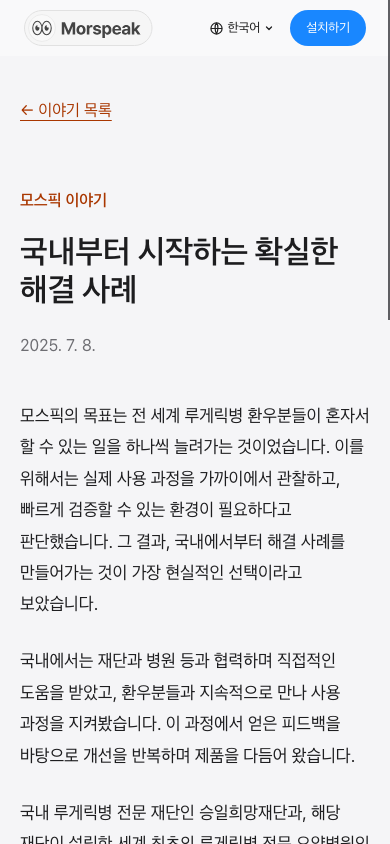
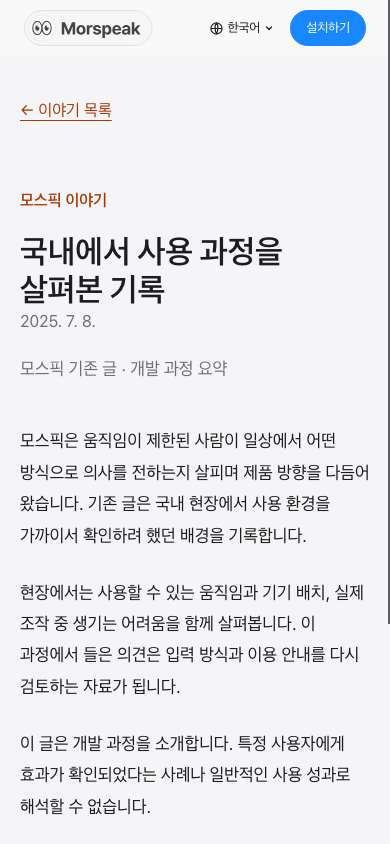
feat(home): 한국어 회사 홈의 변화 근거와 이야기 출처를 명확히 정리
일곱 영역의 탐색을 유지하며 확인된 과정, 보도 사례, 검증 전 기대 효과를 구분했습니다.
기존 이야기의 미확인 수치·인용을 새 경로에서 제외하고 출처와 검토 화면을 기록했습니다.
전체 린트의 기존 88개 오류는 이번 변경 범위 밖에 남아 있습니다.

Changed region(s): [[0.0308, 0.2773, 0.9538, 1.0], [0.9846, 0.3697, 1.0, 0.7393], [0.8615, 0.6777, 0.9231, 0.7085]]

diff --git a/app/home/renewal/Renewal.tsx b/app/home/renewal/Renewal.tsx
@@ -265,22 +265,12 @@ function InputSymbol({ kind }: { kind: InputKind }) {
 }
 const stories = [
   {
-    source: "모스픽 소식",
-    title: "WWDC에서 모스픽을 소개했습니다",
-    image: "/renewal-reference/morspeak-tim-cook-meeting.jpg",
-    small: "/renewal-reference/morspeak-tim-cook-meeting.jpg",
-    alt: "WWDC에서 모스픽을 소개하는 한가온 대표",
-    href: "/articles/250609",
-    external: false,
-  },
-  {
     source: "스마일게이트 뉴스룸",
-    title: "기술을 통한 사회적 변화에 관한 인터뷰",
+    title: "모스픽의 기술과 일상에 관한 인터뷰",
     image: "/renewal-reference/morspeak-everyday-story-20261008.webp",
     small: "/renewal-reference/morspeak-everyday-story-20261008.webp",
     alt: "침대 옆에서 모스픽을 설명하는 장면",
     href: "https://newsroom.smilegate.com/en/lab/morspeak_interview",
-    external: true,
   },
 ];
 const onboardingSteps = [
@@ -584,9 +574,18 @@ export default function Renewal() {
             <h2>변화는 스스로 선택할 수 있는 순간에서 시작합니다.</h2>
           </div>
           <div className={styles.impactCopy}>
-            <p>원하는 말을 전하고, 조명을 조절하거나 음악을 고르는 일. 모스픽은 작은 움직임이 이런 선택으로 이어지도록 설계합니다.</p>
-            <p>그 변화는 당사자가 의사를 표현할 통로를 넓히고, 가족·돌봄 제공자와 소통하는 방식에도 영향을 줄 수 있습니다. 실제 사용 결과와 효과는 개인별 사용 환경에서 확인해야 합니다.</p>
-            <p>2026년 7월 스마일게이트 뉴스룸 인터뷰는 한 가족이 필요한 것을 요청하고 음악을 직접 선택한 경험을 소개합니다. 한 사례의 보도 내용이며, 모든 사용자에게 같은 결과가 나타난다는 뜻은 아닙니다.</p>
+            <div className={styles.impactItem}>
+              <h3>확인된 사용 과정의 변화</h3>
+              <p>모스픽은 작은 움직임을 입력으로 받아 화면에서 말을 만들고 선택하는 과정을 제공합니다. 어떤 움직임을 사용할 수 있는지는 잔존 움직임 평가와 결과 검토를 통해 개인별로 확인합니다.</p>
+            </div>
+            <div className={styles.impactItem}>
+              <h3>출처가 있는 한 가족의 경험</h3>
+              <p>2026년 7월 스마일게이트 뉴스룸은 한 가족이 필요한 것을 요청하고 음악을 직접 선택한 경험을 전했습니다. 보도에 실린 한 사례이며, 다른 사용자에게 같은 결과가 나타난다는 근거는 아닙니다.</p>
+            </div>
+            <div className={styles.impactItem}>
+              <h3>검증할 임팩트</h3>
+              <p>당사자가 의사를 표현할 기회와 가족·돌봄 제공자와의 소통 방식이 넓어질 것으로 기대합니다. 실제 변화의 정도와 지속 여부는 개인별 사용 환경에서 확인해야 합니다.</p>
+            </div>
             <a className={styles.textLink} href="https://newsroom.smilegate.com/en/lab/morspeak_interview" target="_blank" rel="noreferrer">스마일게이트 뉴스룸 인터뷰 원문 읽기 →</a>
             <Link className={styles.textLink} href="#renewal-journal">만들어 가는 과정 읽기 →</Link>
           </div>
@@ -626,7 +625,7 @@ export default function Renewal() {
           ))}
         </Gallery>
         <div className={styles.sectionAction}>
-          <p>평가 장소·기기·비용과 지원 범위는 이용 안내 과정에서 확인할 수 있습니다.</p>
+          <p>신청 화면에서 희망 날짜를 선택하면 해당 날짜의 접수 순서에 따라 담당자가 연락해 이용 절차를 안내합니다. 평가 장소·기기·비용과 지원 범위는 안내 과정에서 확인할 수 있습니다.</p>
           <Link className={styles.pillLink} href="/waitlist">모스픽 이용 안내 신청</Link>
         </div>
       </section>
@@ -647,12 +646,12 @@ export default function Renewal() {
         </div>
         <div className={styles.journalGrid}>
           <Link href="/home/renewal/stories/250708" className={styles.journalCard}>
-            <span>현장과 제품</span><h3>국내부터 시작하는 해결 사례</h3>
-            <p>직접 만나 사용 과정을 살피고, 피드백을 제품에 반영해 온 이야기.</p><strong>이야기 읽기 →</strong>
+            <span>현장과 제품</span><h3>국내에서 사용 과정을 살펴본 기록</h3>
+            <p>현장에서 사용 과정을 살피고 제품 방향을 다듬은 기록.</p><strong>이야기 읽기 →</strong>
           </Link>
           <Link href="/home/renewal/stories/251124" className={styles.journalCard}>
-            <span>만드는 사람들</span><h3>Let’Swift에서 전한 모스픽의 여정</h3>
-            <p>모스픽을 만들게 된 계기와 입력 기술을 개발해 온 과정.</p><strong>이야기 읽기 →</strong>
+            <span>만드는 사람들</span><h3>Let’Swift에서 전한 개발 이야기</h3>
+            <p>모스픽 기존 글에 담긴 개발 배경과 발표 내용을 정리한 기록.</p><strong>이야기 읽기 →</strong>
           </Link>
         </div>
         <Link className={styles.textLink} href="/home/renewal/stories">모든 이야기 보기 →</Link>
@@ -671,7 +670,7 @@ export default function Renewal() {
               <div className={styles.storyCopy}>
                 <p className={styles.storySource}>{card.source}</p>
                 <h3>{card.title}</h3>
-                <a href={card.href} target={card.external ? "_blank" : undefined} rel={card.external ? "noreferrer" : undefined}>기사 읽기 →</a>
+                <a href={card.href} target="_blank" rel="noreferrer">기사 읽기 →</a>
               </div>
             </article>
           ))}

diff --git a/app/home/renewal/stories/story-data.ts b/app/home/renewal/stories/story-data.ts
@@ -1,11 +1,51 @@
 import { articles } from "@/lib/articles";
 
-// The existing articles about field work and product development form the story collection.
-// Awards and event coverage stay in the press/news area.
-const storySlugs = ["250708", "251124"] as const;
+type Story = {
+  slug: string;
+  title: string;
+  date: string;
+  paragraphs: string[];
+  provenance: {
+    authorType: "모스픽 기존 글";
+    originalSource: string;
+    publicationDate: string;
+    reuseScope: "개발 과정 요약";
+  };
+};
 
-export const stories = storySlugs.map((slug) => {
-  const article = articles.find((item) => item.slug === slug);
-  if (!article) throw new Error(`Missing existing story article: ${slug}`);
-  return article;
+// Dates and source links come from existing team articles. Their unverified
+// counts, quotations and outcome claims are excluded from these summaries.
+const summaries: Pick<Story, "slug" | "title" | "paragraphs">[] = [
+  {
+    slug: "250708",
+    title: "국내에서 사용 과정을 살펴본 기록",
+    paragraphs: [
+      "모스픽은 움직임이 제한된 사람이 일상에서 어떤 방식으로 의사를 전하는지 살피며 제품 방향을 다듬어 왔습니다. 기존 글은 국내 현장에서 사용 환경을 가까이서 확인하려 했던 배경을 기록합니다.",
+      "현장에서는 사용할 수 있는 움직임과 기기 배치, 실제 조작 중 생기는 어려움을 함께 살펴봅니다. 이 과정에서 들은 의견은 입력 방식과 이용 안내를 다시 검토하는 자료가 됩니다.",
+      "이 글은 개발 과정을 소개합니다. 특정 사용자에게 효과가 확인되었다는 사례나 일반적인 사용 성과로 해석할 수 없습니다.",
+    ],
+  },
+  {
+    slug: "251124",
+    title: "Let’Swift에서 전한 개발 이야기",
+    paragraphs: [
+      "모스픽의 기존 글은 Let’Swift 발표에서 아이패드 앱을 만들게 된 배경과 눈 깜빡임 입력 기술의 개발 과정을 공유했다고 기록합니다.",
+      "발표 내용은 기술과 문제의식을 소개하는 자료입니다. 실제 사용 가능 여부는 개인의 움직임과 사용 환경을 살피는 평가 과정에서 확인해야 합니다.",
+    ],
+  },
+];
+
+export const stories: Story[] = summaries.map((summary) => {
+  const original = articles.find((article) => article.slug === summary.slug);
+  if (!original) throw new Error(`Missing existing story article: ${summary.slug}`);
+  return {
+    ...summary,
+    date: original.date,
+    provenance: {
+      authorType: "모스픽 기존 글",
+      originalSource: `/articles/${summary.slug}`,
+      publicationDate: original.date,
+      reuseScope: "개발 과정 요약",
+    },
+  };
 });

diff --git a/app/home/renewal/renewal.module.css b/app/home/renewal/renewal.module.css
@@ -208,15 +208,13 @@
   max-width: 850px;
   line-height: 1.16;
 }
-.editorial .lead,
-.impactCopy p:first-child {
+.editorial .lead {
   font-size: 28px;
   line-height: 1.42;
   font-weight: 400;
   margin-top: 36px;
 }
-.editorialInner > p:not(.eyebrow):not(.lead),
-.impactCopy p:not(:first-child) {
+.editorialInner > p:not(.eyebrow):not(.lead) {
   font-size: 19px;
   line-height: 1.7;
   margin-top: 24px;
@@ -269,8 +267,20 @@
   grid-template-columns: 1fr 1fr;
   gap: 80px;
 }
-.impactCopy p:first-child {
-  margin-top: 0;
+.impactItem + .impactItem {
+  margin-top: 40px;
+}
+.impactItem h3 {
+  color: #a93700;
+  font-size: 17px;
+  line-height: 1.5;
+  font-weight: 600;
+  margin-bottom: 12px;
+}
+.impactItem p {
+  font-size: 19px;
+  line-height: 1.7;
+  max-width: 700px;
 }
 .resourceIntro {
   margin: 0 var(--gutter) 42px !important;
@@ -784,14 +794,13 @@
   .impactCopy {
     margin-top: 32px;
   }
-  .editorial .lead,
-  .impactCopy p:first-child {
+  .editorial .lead {
     font-size: 21px;
     line-height: 1.48;
     margin-top: 28px;
   }
   .editorialInner > p:not(.eyebrow):not(.lead),
-  .impactCopy p:not(:first-child) {
+  .impactItem p {
     font-size: 17px;
   }
   .sectionLead,

diff --git a/app/home/renewal/stories/stories.module.css b/app/home/renewal/stories/stories.module.css
@@ -32,6 +32,7 @@
   background: #fff;
 }
 .date { color: #6e6e73; font-size: .875rem; line-height: 1.5; }
+.source { color: #6e6e73; font-size: .875rem; line-height: 1.5; margin-top: 8px; }
 .storyLink h2 { margin-top: 14px; font-size: 1.75rem; line-height: 1.3; font-weight: 600; }
 .storyLink p { margin-top: 16px; font-size: 1.0625rem; line-height: 1.6; display: -webkit-box; -webkit-line-clamp: 3; -webkit-box-orient: vertical; overflow: hidden; }
 .read { margin-top: auto; padding-top: 20px; color: #a93700; font-size: 1.0625rem; text-decoration: underline; text-underline-offset: 4px; }

diff --git a/app/home/renewal/stories/page.tsx b/app/home/renewal/stories/page.tsx
@@ -24,6 +24,7 @@ export default function StoriesPage() {
               <Link className={styles.storyLink} href={`/home/renewal/stories/${story.slug}`}>
                 <span className={styles.date}>{story.date}</span>
                 <h2>{story.title}</h2>
+                <span className={styles.source}>{story.provenance.authorType} · 개발 과정 요약</span>
                 <p>{story.paragraphs[0]}</p>
                 <span className={styles.read}>이야기 읽기 →</span>
               </Link>

diff --git a/app/home/renewal/stories/[slug]/page.tsx b/app/home/renewal/stories/[slug]/page.tsx
@@ -29,6 +29,7 @@ export default async function StoryPage({ params }: Props) {
           <p className={styles.eyebrow}>모스픽 이야기</p>
           <h1>{story.title}</h1>
           <p className={styles.date}>{story.date}</p>
+          <p className={styles.source}>{story.provenance.authorType} · {story.provenance.reuseScope}</p>
         </header>
         <div className={styles.body}>
           {story.paragraphs.map((paragraph, index) => <p key={index}>{paragraph}</p>)}

diff --git a/docs/renewal-verification/README.md b/docs/renewal-verification/README.md
@@ -2,28 +2,49 @@
 
 ## 검토 대상
 
-- 격리 worktree: `/Users/xnoag/.ouroboros/worktrees/morspeak-web/orch_afc21c60f87a`
-- 브랜치: `ooo/orch_afc21c60f87a` (기준 `19ef1bb`)
+- 격리 worktree: `/Users/xnoag/.ouroboros/worktrees/orch_afc21c60f87a/ralph-5c503ddca64b27f7c02869ca0834a3`
+- 브랜치: `ooo/ralph-5c503ddca64b27f7c02869ca0834a3` (메인 체크아웃 `feat/unified-admin`의 `19ef1bb`에서 분기)
 - 대상: `/home/renewal`, `/home/renewal/stories`, 하위 이야기 페이지, `/waitlist`와 `/contact`로 향하는 링크
 - 소스: `app/home/renewal/Renewal.tsx`, `app/home/renewal/renewal.module.css`, `app/home/renewal/stories/`, `app/contact/page.tsx`, `components/ContactForm.tsx`
 - 검토용 로컬 URL: `http://127.0.0.1:3187/home/renewal` (`npm run start -- --hostname 127.0.0.1 --port 3187` 실행 중에만 접근 가능)
 
-## 실행 검증
+## 먼저 확인한 공통 검증 단계
 
-- `npx tsc --noEmit`: 통과.
-- `npm test`: 리뉴얼 일곱 영역, 이야기 목록·상세 복귀, 개인·협업 CTA와 기존 링크의 HTTP 200, 언론 분리 확인. 1건 통과. 다른 개발 서버의 `.next/dev` 잠금과 충돌하지 않도록 테스트 전용 빌드 디렉터리를 사용하고 종료 시 제거합니다. 해당 경로는 `tsconfig.json`에 미리 포함해 테스트 실행으로 설정 파일이 다시 쓰이지 않게 했습니다.
-- 변경 파일 대상 ESLint: 오류 0건, 기존 `<img>` 사용 경고 3건.
-- 합성 Firebase 공개 설정을 주입한 `npm run build`: 통과. `/home/renewal`, 이야기 목록과 두 상세가 정적 경로로 생성됨.
-- `node scripts/verify-renewal-render.mjs`: Chrome 실제 렌더에서 1440×900과 모바일 에뮬레이션 390×844의 뷰포트·가로 넘침·히어로 이미지·메뉴 모드 확인. 모바일 `/contact`의 `기관·기업 협업 문의` 제목과 이야기 목록·상세의 제목·가로 넘침 확인.
+- 초기 `npm run lint`와 `npm run build`는 이 worktree에 `node_modules`가 없어 각각 `eslint: command not found`, `next: command not found`로 실패했습니다. `npm ci`로 잠금 파일의 의존성을 복원했습니다.
+- 복원 후 전체 린트는 88 오류·789 경고로 실패했습니다. 오류는 관리자·추적 등 기존 화면, Firebase 함수, 제공된 MediaPipe 파일에 있으며 이번 변경 파일에는 없습니다. 전체 린트는 `blocked_by_gate`, 이번 변경 범위 린트는 `assessed_pass`입니다.
+- 설정 없이 빌드하면 `/admin/inquiries` 사전 렌더에서 `auth/invalid-api-key`로 실패했습니다. 비밀값이나 운영 DB를 쓰지 않는 합성 Firebase 공개 설정을 프로세스 환경에만 주입해 빌드 단계를 검증했습니다.
+
+## 이번 변경의 평가
+
+- 변경 파일 대상 ESLint: 오류 0건, 기존 `<img>` 경고 3건 (`assessed_pass`).
+- `npm test`: 일곱 영역, 목적지 HTTP 200, 이야기 목록·상세, 출처 구분, 개인·협업 CTA와 접수 의미 확인. 1건 통과 (`assessed_pass`). 테스트는 별도 빌드 디렉터리를 사용합니다.
+- 합성 공개 설정의 `npm run build`: 통과. `/home/renewal`, 이야기 목록과 두 상세가 정적 경로로 생성됨 (`assessed_pass`). 실제 Firebase 접수 검증은 아닙니다.
+- `node scripts/verify-renewal-render.mjs`: Chrome 1440×900·모바일 에뮬레이션 390×844에서 가로 넘침 없음, 히어로 로딩, 모바일 메뉴 7개 항목 열림, 문의·이야기 화면 제목 확인 (`assessed_pass`).
 - `git diff --check`: 통과.
-- 전체 `npm run lint`: 실패. 작업 범위 밖 관리자 코드와 중첩 `.claude/worktrees`를 포함해 88 오류, 789 경고가 출력됨. 이 결과를 전체 린트 통과로 해석하지 않음.
+
+## 콘텐츠 출처와 전환 경계
+
+| 항목 | 작성 주체·원문·게시일 | 이번 페이지의 사용 범위 |
+| --- | --- | --- |
+| 이야기 250708 | 모스픽 기존 글 `/articles/250708`, 2025-07-08 | 개발 과정 요약. 기존 글의 수치·인용·성과 주장은 재사용하지 않음 |
+| 이야기 251124 | 모스픽 기존 글 `/articles/251124`, 2025-11-24 | 발표·개발 배경 요약. 참석자 반응·성과 주장은 재사용하지 않음 |
+| 언론 인터뷰 | 스마일게이트 뉴스룸, [원문](https://newsroom.smilegate.com/en/lab/morspeak_interview), 2026-07-30 | 한 가족 경험만 출처를 명시해 소개. 일반 효과로 확장하지 않음 |
+
+- 확인된 과정: 잔존 움직임 평가 → 결과 검토 → 세팅 안내 → 교육 지원 → 커뮤니티의 개인 이용 흐름. 개인별 제공 조건은 안내에서 확인합니다.
+- 출처가 있는 결과: 스마일게이트 뉴스룸이 전한 한 가족의 경험. 보도 출처와 단일 사례의 한계를 함께 표시합니다.
+- 검증 전 기대 효과: 의사 표현 기회와 가족·돌봄 제공자와의 소통 방식 확대. 측정된 임팩트로 쓰지 않습니다.
+- 합성 페르소나: 내부 페이지 검토 가설에만 사용하며 공개 고객 경험이나 성과로 전환하지 않습니다.
+- 개인 CTA `/waitlist`: 희망 날짜를 고르는 이용 신청 접수이며, 해당 날짜 접수 순서에 따라 담당자가 연락해 절차를 안내합니다. 다섯 단계의 완료나 이용 가능성 보장은 아닙니다.
+- 협업 CTA `/contact`: 기관의 도입·교육 논의 또는 기업의 접근성 기술 협력 제안 접수입니다. 제공·연동 범위는 문의 후 검토합니다.
 
 ## 화면 캡처
 
 - [PC 홈 히어로](desktop-1440.png)
 - [PC 이야기 구역](desktop-1440-stories.png)
+- [PC 일상의 변화와 임팩트](desktop-1440-impact.png)
 - [모바일 홈 히어로](mobile-390.png)
 - [모바일 이야기 구역](mobile-390-stories.png)
+- [모바일 일상의 변화와 임팩트](mobile-390-impact.png)
 - [모바일 기관·기업 문의](mobile-390-contact.png)
 - [모바일 이야기 목록](mobile-390-story-list.png)
 - [모바일 이야기 상세](mobile-390-story-detail.png)
